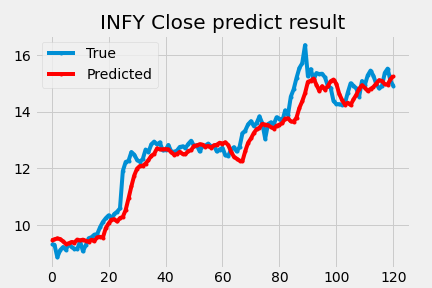
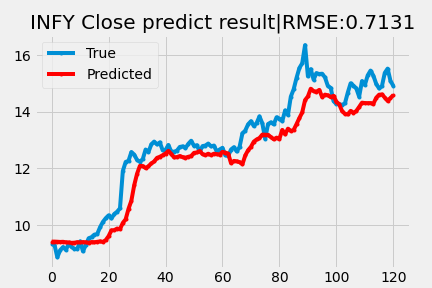
2022/5/29

Changed region(s): [[0.1204, 0.25, 0.9329, 0.875], [0.0602, 0.0312, 0.963, 0.125]]

diff --git a/Stock-prediction-bi-lstm-with-conv-1d.py b/Stock-prediction-bi-lstm-with-conv-1d.py
@@ -1,9 +1,6 @@
 import numpy as np 
 import pandas as pd 
 import os
-# for dirname, _, filenames in os.walk('/kaggle/input'):
-#     for filename in filenames:
-#         print(os.path.join(dirname, filename))
 import tensorflow as tf
 gpus = tf.config.experimental.list_physical_devices('GPU')
 if gpus:
@@ -23,9 +20,14 @@ def create_dataset(X, y, time_steps=1):
     return np.array(Xs), np.array(ys)
 
 from tensorflow import keras
+from sklearn.metrics import mean_squared_error
+import math
 
-
-
+def return_rmse(test,predicted):
+    
+    rmse = math.sqrt(mean_squared_error(test, predicted))
+    rmse=round(rmse,4)
+    print("The root mean squared error is {}".format(rmse))
 
 data=pd.read_csv('C:/Users/GIGABYTE/Downloads/Stock_Prediction_Bi-LSTM with Conv-1D/Database/INFY.csv',parse_dates=['Date'],index_col='Date')
 data.head()
@@ -113,11 +115,12 @@ y_train_inv=rs_target.inverse_transform(y_train.reshape(1,-1))
 y_test_inv=rs_target.inverse_transform(y_test.reshape(1,-1))
 pred=rs_target.inverse_transform(pred.reshape(1,-1))
 
+return_rmse(y_test_inv,pred)
 
 plt.plot(y_test_inv.flatten(),marker='.',label='True')
 plt.plot(pred.flatten(),'r',marker='.',label='Predicted')
 plt.legend()
-plt.title('INFY Close predict result',fontsize=20)
+plt.title('INFY Close predict result|RMSE:0.7131',fontsize=20)
 plt.savefig("C:/Users/GIGABYTE/Downloads/Stock_Prediction_Bi-LSTM with Conv-1D/img/INFY_Close_predict_result.png")
 plt.show()
 
